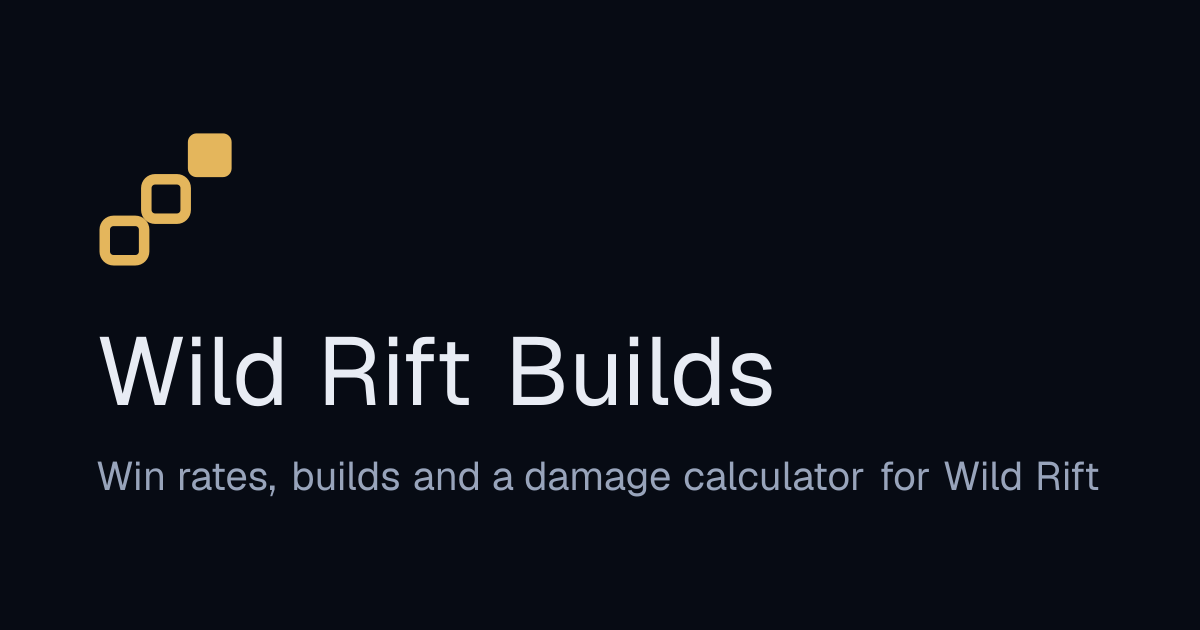
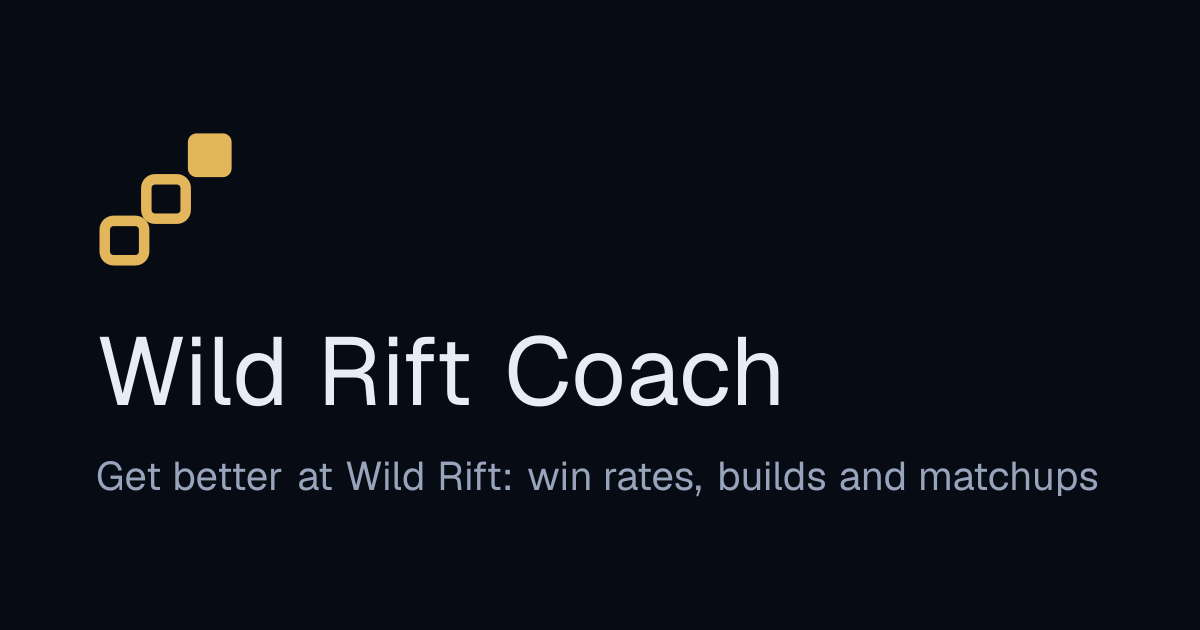
feat: rebrand to Wild Rift Coach
Name, description and link preview image; product brief and roadmap now lead with guides and the AI coach.
Domain check results in docs/next-steps.md.

Changed region(s): [[0.0617, 0.7238, 0.925, 0.7841], [0.4008, 0.5127, 0.6475, 0.6635]]

diff --git a/apps/web/src/app/layout.tsx b/apps/web/src/app/layout.tsx
@@ -14,7 +14,7 @@ export const metadata = {
   // Origin only: Next adds the base path to image URLs itself.
   metadataBase: new URL('/', SITE_URL),
   title: { default: SITE_NAME, template: `%s · ${SITE_NAME}` },
-  description: 'Wild Rift win rates, builds, patch changes and a damage calculator, to help you pick, build and improve.',
+  description: 'Get better at Wild Rift: win rates, builds, matchups, patch changes and a damage calculator.',
   openGraph: { siteName: SITE_NAME, type: 'website' },
   twitter: { card: 'summary_large_image' },
 }

diff --git a/apps/web/src/lib/site/brand.ts b/apps/web/src/lib/site/brand.ts
@@ -1,5 +1,5 @@
 // The site's name in one place: the working name until a domain is bought (see docs/next-steps.md).
-export const SITE_NAME = 'Wild Rift Builds'
+export const SITE_NAME = 'Wild Rift Coach'
 
 // The site's public address, for the sitemap and link previews. The deploy workflow sets it from GitHub Pages, so it
 // follows a custom domain automatically.

diff --git a/docs/next-steps.md b/docs/next-steps.md
@@ -37,10 +37,11 @@ Where the project stands (2026-10-03) and what comes next. Update this file as i
 
 ## Domain (not bought yet)
 
-The working name is **wildriftbuilds**. When checked on 2026-10-03, `wildriftbuilds.com`, `wildriftbuilds.app` and
-`wildriftbuild.com` were unregistered; `.gg` couldn't be checked. Other free options were `riftmath.com` / `.app`,
-`riftcalc.com` / `.app`, `riftsheet.com` and `wrtheory.com`. "Wild Rift" is Riot's trademark: fan sites commonly use it
-and the footer already says the site is unaffiliated, but a name without it (e.g. riftmath) avoids the question.
+The name is **Wild Rift Coach** (owner, 2026-10-04: the site's focus is helping people get better; owner isn't worried
+about the trademark). Checked against the registries on 2026-10-04: `wildriftcoach.com` is taken (registered
+2025-03, no website), and so are `wrcoach.com`, `riftcoach.com`, `riftcoach.app`, `riftcoach.gg` and
+`wildriftcoaching.com` (a coaching business's site). Free: `wildriftcoach.gg`, `.app`, `.io`, `.net`, `.org`,
+`wildrift.coach`, `wrcoach.gg`, `wrcoach.app`, `thewildriftcoach.com`.
 
 Steps once a name is chosen:
 
@@ -60,9 +61,8 @@ Steps once a name is chosen:
 4. **Optional:** verify the domain under your GitHub account's Settings → Pages, so no one else can point a site at it.
 5. **Re-run the "Deploy site" workflow.** With a custom domain the build drops the `/wr-calculator/` sub-path
    automatically.
-6. **Rename the site** if the name changes: `SITE_NAME` in `apps/web/src/lib/site/brand.ts` (header, titles, footer)
-   and the README. Working name since 2026-10-03: **Wild Rift Builds** (owner: go with "Wild Rift something" like
-   other fan sites, change the domain later if it ever becomes a problem).
+6. **Rename the site** if the name changes: `SITE_NAME` in `apps/web/src/lib/site/brand.ts` (header, titles, footer),
+   the README, and re-render `apps/web/src/app/opengraph-image.png` (the link preview has the name in it).
 
 ## Needs the owner
 
@@ -111,6 +111,11 @@ Steps once a name is chosen:
    need their own pass; a logo waits for the name. The design system is in `apps/web/DESIGN.md`; how to edit it:
    `docs/design/README.md`.
 9. **Learning features** (merged to `main`; owner wants the site educational):
+   - Direction (2026-10-04): the site is now **Wild Rift Coach**; guides and the AI coach are the focus, the data pages
+     support them. First guides: **jungle** (when to gank, objectives), the owner's strongest area. These are role
+     guides, not champion guides, so they need a topic-guide page (not built yet; `content/guides/` is per champion).
+   - Stream transcripts: the owner has many long streams; draft guide notes from their transcripts, which the owner
+     checks before anything is published. Waiting on: where the VODs live (Twitch/YouTube) and a first one to try.
    - Done: toughest matchups per lane on champion pages (wrchina's Diamond+ counter data, fetched by
      `cn-builds:update`); power spikes (combo damage after each item) on every popular core; champion guides from
      `content/guides/<id>.md` (template and writing rules in `content/guides/`), shown under the builds. No guides

diff --git a/apps/web/PRODUCT.md b/apps/web/PRODUCT.md
@@ -8,14 +8,16 @@ web
 
 ## Users
 
-Wild Rift ranked players who want to know what to pick and build this patch: which champions are strong, what the
+Wild Rift ranked players who want to get better: how to play their role and champion, plus what to pick and build this patch: which champions are strong, what the
 best players build, and what changed. They check it before or between games, on whatever device is at hand (often a
 laptop or desktop rather than the phone they play on, but phones too). A smaller group of theorycrafters uses the
 damage calculator to dig into build maths.
 
 ## Product Purpose
 
-A Wild Rift reference site: CN-server tier list and win rates, champion pages with CN Diamond+ builds, items, runes,
+A coaching site first (owner's direction, 2026-10-04): in-depth guides written from the owner's own knowledge, starting
+with jungle (gank timing, objectives), and later an AI coach that answers only from those guides and the site's data.
+Around that, the reference pages: CN-server tier list and win rates, champion pages with CN Diamond+ builds, items, runes,
 patch notes with every changed value, and a build damage calculator. Success is a ranked player getting a confident
 pick-and-build answer in seconds, and coming back each patch.
 
@@ -24,8 +26,9 @@ pick-and-build answer in seconds, and coming back each patch.
 Data straight from the China server (Tencent's ranked stats, wrchina.gg Diamond+ builds, a daily log of CN-only
 changes before they reach global) plus a real calculation engine: combo damage, time to kill, two-build comparison and
 "best first item", none of which listing sites offer. The calculator is the depth layer and differentiator, not the
-headline; the browse pages are the main draw. More theory content may come later. (Owner delegated this framing,
-2026-10-03.)
+headline. The knowledge base is what separates the site from generic AI advice: every guide comes from the owner
+(drafted from stream transcripts where useful, then checked by them), and nothing unverified is shown as advice.
+(2026-10-04; earlier framing delegated by the owner on 2026-10-03.)
 
 ## Operating Context
 
@@ -43,7 +46,7 @@ headline; the browse pages are the main draw. More theory content may come later
 - English only for now; other languages and a light theme are likely later, so UI strings and colours must stay easy
   to swap.
 - Must look good on phones, tablets and desktops alike.
-- Name undecided: working name "wildriftbuilds"; the site currently says "wr-calc".
+- Name: Wild Rift Coach (2026-10-04, was Wild Rift Builds). Domain not bought yet.
 
 ## Brand Commitments
 

diff --git a/apps/web/DESIGN.md b/apps/web/DESIGN.md
@@ -1,5 +1,5 @@
 ---
-name: Wild Rift Builds
+name: Wild Rift Coach
 description: Wild Rift's loading screen turned into a scoreboard — splash art as data on a blue-black hextech ground.
 colors:
   ground: "#070b14"
@@ -91,7 +91,7 @@ components:
     height: "36px"
 ---
 
-# Design System: Wild Rift Builds
+# Design System: Wild Rift Coach
 
 ## Overview
 

diff --git a/README.md b/README.md
@@ -1,4 +1,4 @@
-# Wild Rift Builds
+# Wild Rift Coach
 
 A pnpm/TypeScript monorepo (packages `@wr-calc/*`) for a Wild Rift site: CN-server win rates, patch changes and a build damage
 calculator. It has a pure calculation engine, real patch data, and a statically exported Next.js site.
